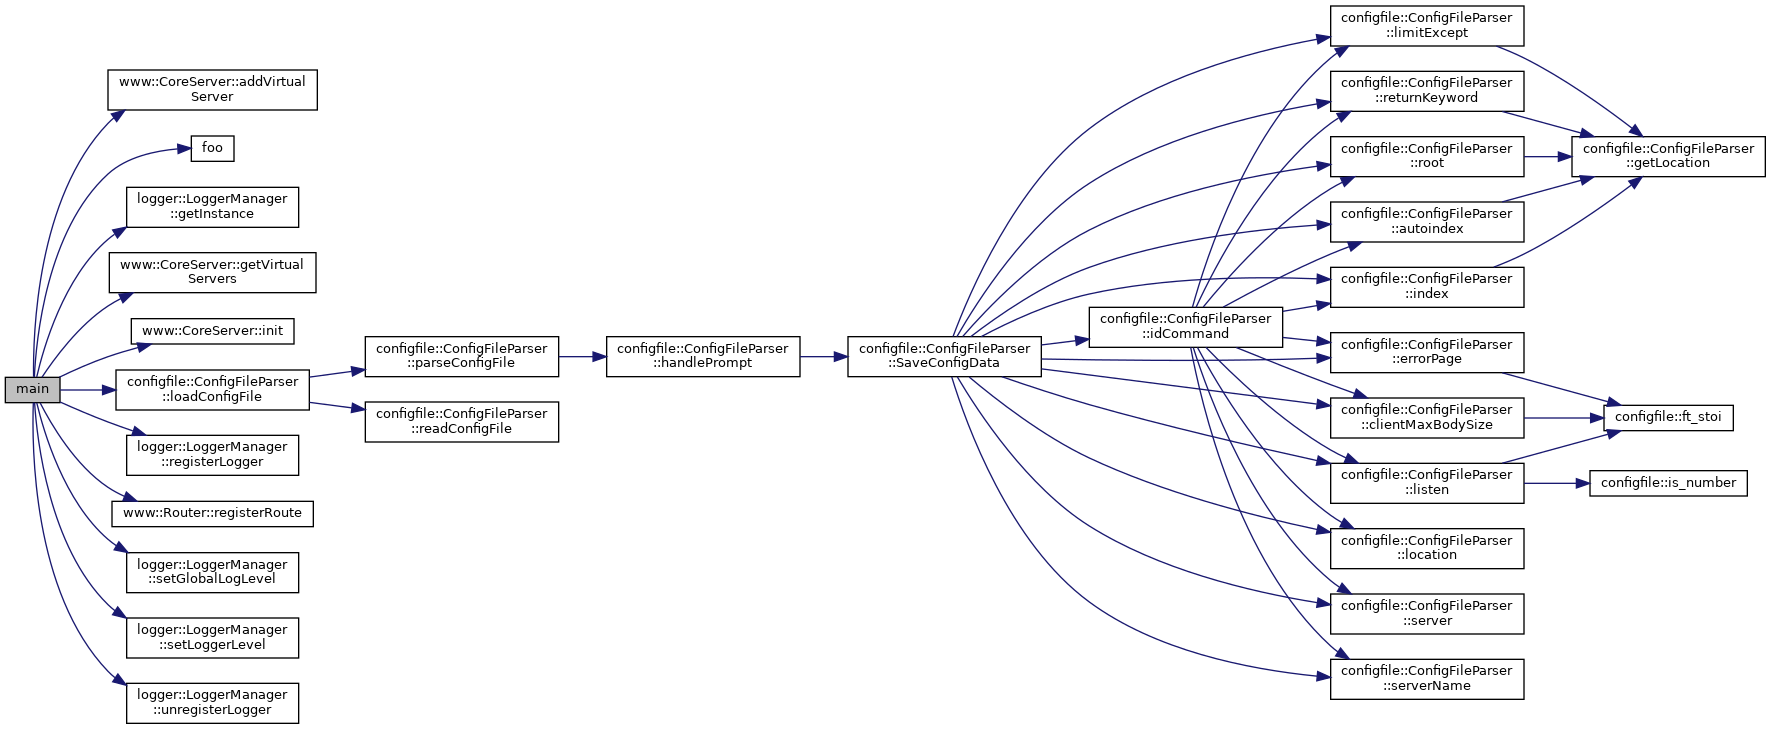
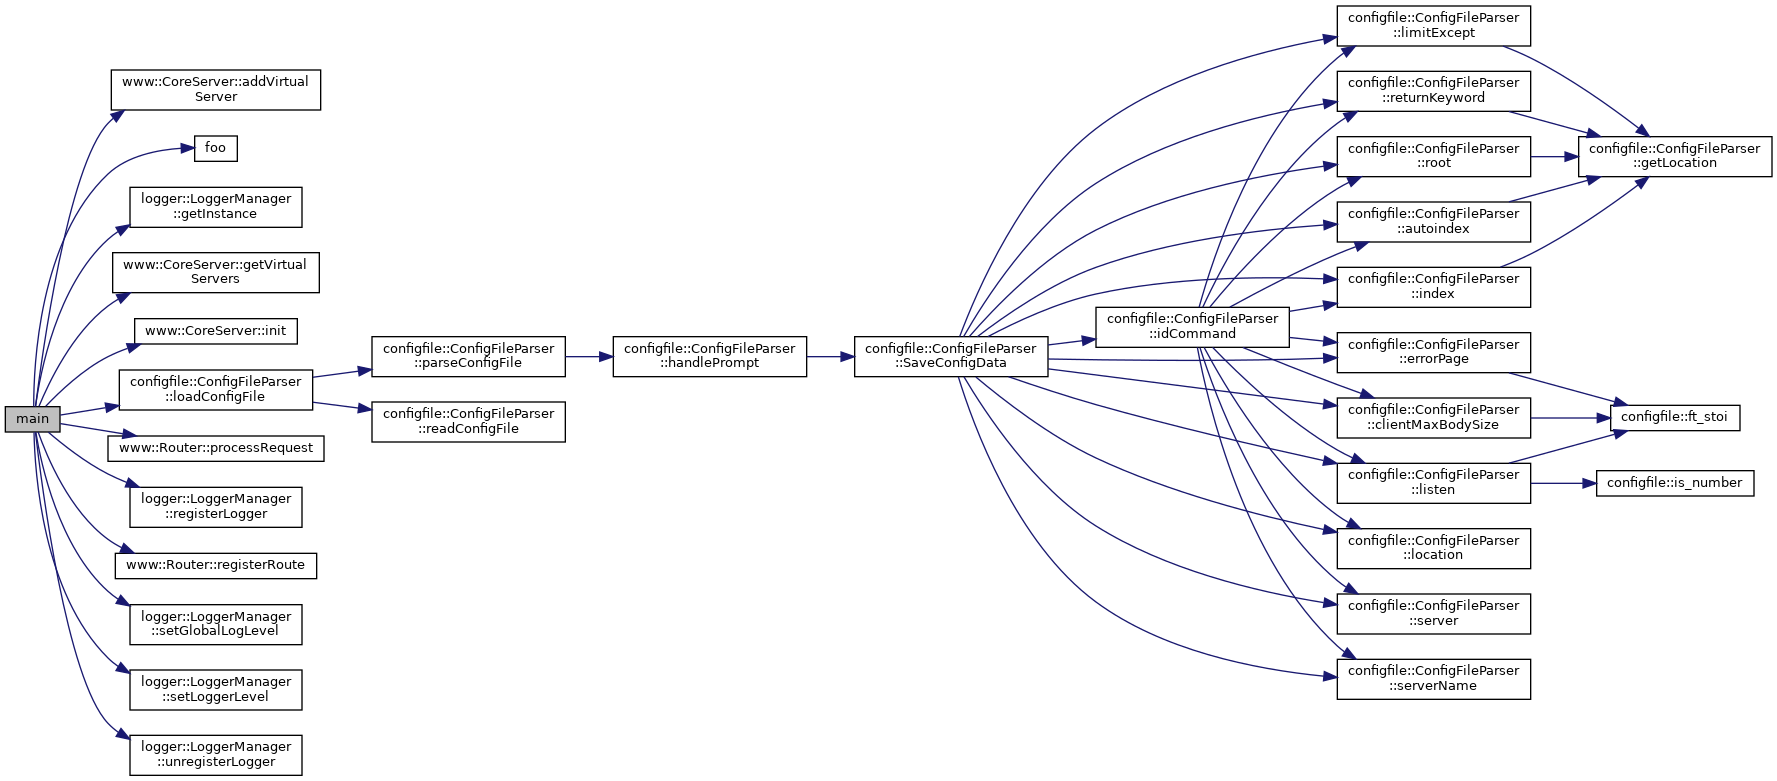
deploy: 33ef4ae413730036f89b91a90101cd8a300ab799

diff --git a/main_8cpp.html b/main_8cpp.html
@@ -221,7 +221,7 @@ Here is the caller graph for this function:</div>
 <div class="line"><a name="l00046"></a><span class="lineno">   46</span>&#160;    router.<a class="code" href="classwww_1_1Router.html#a52bb9a471e4840199e8fd2e0eb12a301">registerRoute</a>(<a class="code" href="structwww_1_1Route.html">www::Route</a>(<span class="stringliteral">&quot;foo&quot;</span>, <a class="code" href="namespacewww.html#aeec20d23be4412d0cfb3b343d22712e2a77ae1de937adbc9a58092ead589256a2">www::GET</a>), <a class="code" href="main_8cpp.html#ad8f8d06fea0e90c71460e714ca52692c">foo</a>);</div>
 <div class="line"><a name="l00047"></a><span class="lineno">   47</span>&#160; </div>
 <div class="line"><a name="l00048"></a><span class="lineno">   48</span>&#160;    <a class="code" href="classwww_1_1Response.html">www::Response</a> res;</div>
-<div class="line"><a name="l00049"></a><span class="lineno">   49</span>&#160;    router.handleRequest(<a class="code" href="classhttp_1_1Request.html">http::Request</a>(), res);</div>
+<div class="line"><a name="l00049"></a><span class="lineno">   49</span>&#160;    router.<a class="code" href="classwww_1_1Router.html#ab827928d8a6306c12ff08bdb67be7f4d">processRequest</a>(<a class="code" href="classhttp_1_1Request.html">http::Request</a>(), res);</div>
 <div class="line"><a name="l00050"></a><span class="lineno">   50</span>&#160; </div>
 <div class="line"><a name="l00051"></a><span class="lineno">   51</span>&#160;    <span class="comment">// configFileParser.printConfigData(1);</span></div>
 <div class="line"><a name="l00052"></a><span class="lineno">   52</span>&#160;    loggerManager.<a class="code" href="classlogger_1_1LoggerManager.html#adf2a8a1ad83a5404d6249518fa460971">unregisterLogger</a>(<span class="stringliteral">&quot;File&quot;</span>);</div>
@@ -251,6 +251,7 @@ Here is the caller graph for this function:</div>
 <div class="ttc" id="aclasswww_1_1Response_html"><div class="ttname"><a href="classwww_1_1Response.html">www::Response</a></div><div class="ttdef"><b>Definition:</b> <a href="Router_8hpp_source.html#l00012">Router.hpp:12</a></div></div>
 <div class="ttc" id="aclasswww_1_1Router_html"><div class="ttname"><a href="classwww_1_1Router.html">www::Router</a></div><div class="ttdoc">...</div><div class="ttdef"><b>Definition:</b> <a href="Router_8hpp_source.html#l00039">Router.hpp:39</a></div></div>
 <div class="ttc" id="aclasswww_1_1Router_html_a52bb9a471e4840199e8fd2e0eb12a301"><div class="ttname"><a href="classwww_1_1Router.html#a52bb9a471e4840199e8fd2e0eb12a301">www::Router::registerRoute</a></div><div class="ttdeci">void registerRoute(const Route &amp;route, const HandlerFunc &amp;handler)</div><div class="ttdef"><b>Definition:</b> <a href="Router_8cpp_source.html#l00044">Router.cpp:44</a></div></div>
+<div class="ttc" id="aclasswww_1_1Router_html_ab827928d8a6306c12ff08bdb67be7f4d"><div class="ttname"><a href="classwww_1_1Router.html#ab827928d8a6306c12ff08bdb67be7f4d">www::Router::processRequest</a></div><div class="ttdeci">void processRequest(const http::Request &amp;req, Response &amp;res) const</div><div class="ttdef"><b>Definition:</b> <a href="Router_8cpp_source.html#l00048">Router.cpp:48</a></div></div>
 <div class="ttc" id="amain_8cpp_html_ad8f8d06fea0e90c71460e714ca52692c"><div class="ttname"><a href="main_8cpp.html#ad8f8d06fea0e90c71460e714ca52692c">foo</a></div><div class="ttdeci">void foo(const http::Request &amp;, www::Response &amp;)</div><div class="ttdef"><b>Definition:</b> <a href="main_8cpp_source.html#l00008">main.cpp:8</a></div></div>
 <div class="ttc" id="anamespaceconfigfile_html"><div class="ttname"><a href="namespaceconfigfile.html">configfile</a></div><div class="ttdef"><b>Definition:</b> <a href="Parser_8cpp_source.html#l00003">Parser.cpp:3</a></div></div>
 <div class="ttc" id="anamespacelogger_html_a08ef41fb8da9e671d65fcbd87b6574a2a0b189dfc00bfa02dd8c23d7d6e1a538c"><div class="ttname"><a href="namespacelogger.html#a08ef41fb8da9e671d65fcbd87b6574a2a0b189dfc00bfa02dd8c23d7d6e1a538c">logger::DEBUG</a></div><div class="ttdeci">@ DEBUG</div><div class="ttdef"><b>Definition:</b> <a href="ALogger_8hpp_source.html#l00017">ALogger.hpp:17</a></div></div>
@@ -262,37 +263,38 @@ Here is the call graph for this function:</div>
 <div class="dyncontent">
 <div class="center"><img src="main_8cpp_a172241e088a9da9dabf2cf839a73c865_cgraph.png" border="0" usemap="#amain_8cpp_a172241e088a9da9dabf2cf839a73c865_cgraph" alt=""/></div>
 <map name="amain_8cpp_a172241e088a9da9dabf2cf839a73c865_cgraph" id="amain_8cpp_a172241e088a9da9dabf2cf839a73c865_cgraph">
-<area shape="rect" title=" " alt="" coords="5,377,60,403"/>
-<area shape="rect" href="classwww_1_1CoreServer.html#ad7b57e659886aef2bf711f2642b4253a" title=" " alt="" coords="108,69,317,111"/>
-<area shape="rect" href="main_8cpp.html#ad8f8d06fea0e90c71460e714ca52692c" title=" " alt="" coords="191,135,234,162"/>
-<area shape="rect" href="classlogger_1_1LoggerManager.html#ad140bde7c3a4c9241fb147f2c864d018" title="Provides access to the singleton instance of LoggerManager." alt="" coords="127,187,299,228"/>
-<area shape="rect" href="classwww_1_1CoreServer.html#a375b9148831eca17c0230a44fb129d72" title=" " alt="" coords="109,252,316,293"/>
-<area shape="rect" href="classwww_1_1CoreServer.html#a669f22616cd765a3eeddc0e8cd72d2ea" title=" " alt="" coords="131,318,294,345"/>
-<area shape="rect" href="classconfigfile_1_1ConfigFileParser.html#a50af4e49462d1d98e1323db4966b8066" title="Loads the configuration file, saving all the information." alt="" coords="116,369,309,411"/>
-<area shape="rect" href="classlogger_1_1LoggerManager.html#ae26ebcbad9c6e4f85769438abac46db5" title="Registers a new logger with the manager." alt="" coords="127,435,299,476"/>
-<area shape="rect" href="classwww_1_1Router.html#a52bb9a471e4840199e8fd2e0eb12a301" title=" " alt="" coords="112,501,313,527"/>
-<area shape="rect" href="classlogger_1_1LoggerManager.html#a7237ff5a6cead3d670328feb6ea60cbd" title="Sets the global log level." alt="" coords="127,552,299,593"/>
-<area shape="rect" href="classlogger_1_1LoggerManager.html#a45d840b2a9bd9fbfccb34689ddc79527" title="Sets the log level for a specific logger." alt="" coords="127,617,299,659"/>
-<area shape="rect" href="classlogger_1_1LoggerManager.html#adf2a8a1ad83a5404d6249518fa460971" title="Unregisters a logger from the manager." alt="" coords="127,683,299,724"/>
-<area shape="rect" href="classconfigfile_1_1ConfigFileParser.html#af7511360a26373b0dead35fbf698c92d" title="Parses the configuration file." alt="" coords="365,336,559,377"/>
-<area shape="rect" href="classconfigfile_1_1ConfigFileParser.html#ad44a28949997d104df4adf501df93e27" title="Reads the configuration file." alt="" coords="365,401,559,443"/>
-<area shape="rect" href="classconfigfile_1_1ConfigFileParser.html#a418f206d5a0144b7635d260560e08ddd" title="parses a line in the configuration file." alt="" coords="607,336,800,377"/>
-<area shape="rect" href="classconfigfile_1_1ConfigFileParser.html#aebc8f5033289d1fb5a1f1ad49c8a0aa1" title="Saves the configuration data." alt="" coords="848,336,1041,377"/>
-<area shape="rect" href="classconfigfile_1_1ConfigFileParser.html#af3f279ca9388592cca6cfd3a2ea92e2e" title="turns the autoindex on or off for the location. (off by default)" alt="" coords="1331,201,1524,243"/>
-<area shape="rect" href="classconfigfile_1_1ConfigFileParser.html#a9ea431676031c75d2c43ed50f1a5686c" title="sets the max body size for the server." alt="" coords="1331,397,1524,439"/>
-<area shape="rect" href="classconfigfile_1_1ConfigFileParser.html#a0ee3094c6d18fb7878cddac3e33c31d4" title="sets the error pages for the server." alt="" coords="1331,332,1524,373"/>
-<area shape="rect" href="classconfigfile_1_1ConfigFileParser.html#ab3d5fe6fa58a1cf92d20b3c91d125e69" title="Identifies the command in the configuration file. and returns the id of the command." alt="" coords="1089,307,1283,348"/>
-<area shape="rect" href="classconfigfile_1_1ConfigFileParser.html#a80477b149418fa6a0245418364bac231" title="sets the index files for the location. (index.html by default)" alt="" coords="1331,267,1524,308"/>
-<area shape="rect" href="classconfigfile_1_1ConfigFileParser.html#ae1400a057e278646e00a33c759ffdc22" title="sets the methods allowed for the location." alt="" coords="1331,5,1524,47"/>
-<area shape="rect" href="classconfigfile_1_1ConfigFileParser.html#aa483b28cb1db8afe132e944352dbb659" title="Sets the port and ip address of the server." alt="" coords="1331,463,1524,504"/>
-<area shape="rect" href="classconfigfile_1_1ConfigFileParser.html#a6ef03a4ad9248be6f13208da6e5d6896" title="Creates a new location struct, initializes it and adds it to the config data." alt="" coords="1331,528,1524,569"/>
-<area shape="rect" href="classconfigfile_1_1ConfigFileParser.html#ac40ef360285d46826685425e60948a13" title="redirects the user to a different url with a specific return code." alt="" coords="1331,71,1524,112"/>
-<area shape="rect" href="classconfigfile_1_1ConfigFileParser.html#ae043ce4248820f92530fa624fe175716" title="sets the root directory for the location." alt="" coords="1331,136,1524,177"/>
-<area shape="rect" href="classconfigfile_1_1ConfigFileParser.html#a80b3f6b4e30809628b7848d3c29e5575" title="Creates a new server struct, initializes it and adds it to the config data." alt="" coords="1331,593,1524,635"/>
-<area shape="rect" href="classconfigfile_1_1ConfigFileParser.html#ad183b45a0c20d5fda540cfc235488d06" title="Sets the server name(s) of the server." alt="" coords="1331,659,1524,700"/>
-<area shape="rect" href="classconfigfile_1_1ConfigFileParser.html#a91faa997adaf9945ec4e7b3016fc3a4d" title="finds the current location in the configuration file." alt="" coords="1572,136,1765,177"/>
-<area shape="rect" href="namespaceconfigfile.html#ad34d46b490514a9d5c9408620ed5e006" title="Converts a string to a positive integer." alt="" coords="1604,405,1733,431"/>
-<area shape="rect" href="namespaceconfigfile.html#abab751401cc4565602552b0da2b831aa" title="Checks if a string is a number." alt="" coords="1590,470,1747,497"/>
+<area shape="rect" title=" " alt="" coords="5,406,60,433"/>
+<area shape="rect" href="classwww_1_1CoreServer.html#ad7b57e659886aef2bf711f2642b4253a" title=" " alt="" coords="111,69,321,111"/>
+<area shape="rect" href="main_8cpp.html#ad8f8d06fea0e90c71460e714ca52692c" title=" " alt="" coords="195,135,237,162"/>
+<area shape="rect" href="classlogger_1_1LoggerManager.html#ad140bde7c3a4c9241fb147f2c864d018" title="Provides access to the singleton instance of LoggerManager." alt="" coords="130,187,302,228"/>
+<area shape="rect" href="classwww_1_1CoreServer.html#a375b9148831eca17c0230a44fb129d72" title=" " alt="" coords="113,252,319,293"/>
+<area shape="rect" href="classwww_1_1CoreServer.html#a669f22616cd765a3eeddc0e8cd72d2ea" title=" " alt="" coords="135,318,297,345"/>
+<area shape="rect" href="classconfigfile_1_1ConfigFileParser.html#a50af4e49462d1d98e1323db4966b8066" title="Loads the configuration file, saving all the information." alt="" coords="119,369,313,411"/>
+<area shape="rect" href="classwww_1_1Router.html#ab827928d8a6306c12ff08bdb67be7f4d" title=" " alt="" coords="108,435,324,462"/>
+<area shape="rect" href="classlogger_1_1LoggerManager.html#ae26ebcbad9c6e4f85769438abac46db5" title="Registers a new logger with the manager." alt="" coords="130,487,302,528"/>
+<area shape="rect" href="classwww_1_1Router.html#a52bb9a471e4840199e8fd2e0eb12a301" title=" " alt="" coords="115,553,317,579"/>
+<area shape="rect" href="classlogger_1_1LoggerManager.html#a7237ff5a6cead3d670328feb6ea60cbd" title="Sets the global log level." alt="" coords="130,604,302,645"/>
+<area shape="rect" href="classlogger_1_1LoggerManager.html#a45d840b2a9bd9fbfccb34689ddc79527" title="Sets the log level for a specific logger." alt="" coords="130,669,302,711"/>
+<area shape="rect" href="classlogger_1_1LoggerManager.html#adf2a8a1ad83a5404d6249518fa460971" title="Unregisters a logger from the manager." alt="" coords="130,735,302,776"/>
+<area shape="rect" href="classconfigfile_1_1ConfigFileParser.html#af7511360a26373b0dead35fbf698c92d" title="Parses the configuration file." alt="" coords="372,336,565,377"/>
+<area shape="rect" href="classconfigfile_1_1ConfigFileParser.html#ad44a28949997d104df4adf501df93e27" title="Reads the configuration file." alt="" coords="372,401,565,443"/>
+<area shape="rect" href="classconfigfile_1_1ConfigFileParser.html#a418f206d5a0144b7635d260560e08ddd" title="parses a line in the configuration file." alt="" coords="613,336,807,377"/>
+<area shape="rect" href="classconfigfile_1_1ConfigFileParser.html#aebc8f5033289d1fb5a1f1ad49c8a0aa1" title="Saves the configuration data." alt="" coords="855,336,1048,377"/>
+<area shape="rect" href="classconfigfile_1_1ConfigFileParser.html#af3f279ca9388592cca6cfd3a2ea92e2e" title="turns the autoindex on or off for the location. (off by default)" alt="" coords="1337,201,1531,243"/>
+<area shape="rect" href="classconfigfile_1_1ConfigFileParser.html#a9ea431676031c75d2c43ed50f1a5686c" title="sets the max body size for the server." alt="" coords="1337,397,1531,439"/>
+<area shape="rect" href="classconfigfile_1_1ConfigFileParser.html#a0ee3094c6d18fb7878cddac3e33c31d4" title="sets the error pages for the server." alt="" coords="1337,332,1531,373"/>
+<area shape="rect" href="classconfigfile_1_1ConfigFileParser.html#ab3d5fe6fa58a1cf92d20b3c91d125e69" title="Identifies the command in the configuration file. and returns the id of the command." alt="" coords="1096,307,1289,348"/>
+<area shape="rect" href="classconfigfile_1_1ConfigFileParser.html#a80477b149418fa6a0245418364bac231" title="sets the index files for the location. (index.html by default)" alt="" coords="1337,267,1531,308"/>
+<area shape="rect" href="classconfigfile_1_1ConfigFileParser.html#ae1400a057e278646e00a33c759ffdc22" title="sets the methods allowed for the location." alt="" coords="1337,5,1531,47"/>
+<area shape="rect" href="classconfigfile_1_1ConfigFileParser.html#aa483b28cb1db8afe132e944352dbb659" title="Sets the port and ip address of the server." alt="" coords="1337,463,1531,504"/>
+<area shape="rect" href="classconfigfile_1_1ConfigFileParser.html#a6ef03a4ad9248be6f13208da6e5d6896" title="Creates a new location struct, initializes it and adds it to the config data." alt="" coords="1337,528,1531,569"/>
+<area shape="rect" href="classconfigfile_1_1ConfigFileParser.html#ac40ef360285d46826685425e60948a13" title="redirects the user to a different url with a specific return code." alt="" coords="1337,71,1531,112"/>
+<area shape="rect" href="classconfigfile_1_1ConfigFileParser.html#ae043ce4248820f92530fa624fe175716" title="sets the root directory for the location." alt="" coords="1337,136,1531,177"/>
+<area shape="rect" href="classconfigfile_1_1ConfigFileParser.html#a80b3f6b4e30809628b7848d3c29e5575" title="Creates a new server struct, initializes it and adds it to the config data." alt="" coords="1337,593,1531,635"/>
+<area shape="rect" href="classconfigfile_1_1ConfigFileParser.html#ad183b45a0c20d5fda540cfc235488d06" title="Sets the server name(s) of the server." alt="" coords="1337,659,1531,700"/>
+<area shape="rect" href="classconfigfile_1_1ConfigFileParser.html#a91faa997adaf9945ec4e7b3016fc3a4d" title="finds the current location in the configuration file." alt="" coords="1579,136,1772,177"/>
+<area shape="rect" href="namespaceconfigfile.html#ad34d46b490514a9d5c9408620ed5e006" title="Converts a string to a positive integer." alt="" coords="1611,405,1740,431"/>
+<area shape="rect" href="namespaceconfigfile.html#abab751401cc4565602552b0da2b831aa" title="Checks if a string is a number." alt="" coords="1597,470,1754,497"/>
 </map>
 </div>
 

diff --git a/main_8cpp_source.html b/main_8cpp_source.html
@@ -111,7 +111,7 @@ $(document).ready(function(){initNavTree('main_8cpp_source.html',''); initResiza
 <div class="line"><a name="l00046"></a><span class="lineno">   46</span>&#160;    router.<a class="code" href="classwww_1_1Router.html#a52bb9a471e4840199e8fd2e0eb12a301">registerRoute</a>(<a class="code" href="structwww_1_1Route.html">www::Route</a>(<span class="stringliteral">&quot;foo&quot;</span>, <a class="code" href="namespacewww.html#aeec20d23be4412d0cfb3b343d22712e2a77ae1de937adbc9a58092ead589256a2">www::GET</a>), <a class="code" href="main_8cpp.html#ad8f8d06fea0e90c71460e714ca52692c">foo</a>);</div>
 <div class="line"><a name="l00047"></a><span class="lineno">   47</span>&#160; </div>
 <div class="line"><a name="l00048"></a><span class="lineno">   48</span>&#160;    <a class="code" href="classwww_1_1Response.html">www::Response</a> res;</div>
-<div class="line"><a name="l00049"></a><span class="lineno">   49</span>&#160;    router.handleRequest(<a class="code" href="classhttp_1_1Request.html">http::Request</a>(), res);</div>
+<div class="line"><a name="l00049"></a><span class="lineno">   49</span>&#160;    router.<a class="code" href="classwww_1_1Router.html#ab827928d8a6306c12ff08bdb67be7f4d">processRequest</a>(<a class="code" href="classhttp_1_1Request.html">http::Request</a>(), res);</div>
 <div class="line"><a name="l00050"></a><span class="lineno">   50</span>&#160; </div>
 <div class="line"><a name="l00051"></a><span class="lineno">   51</span>&#160;    <span class="comment">// configFileParser.printConfigData(1);</span></div>
 <div class="line"><a name="l00052"></a><span class="lineno">   52</span>&#160;    loggerManager.<a class="code" href="classlogger_1_1LoggerManager.html#adf2a8a1ad83a5404d6249518fa460971">unregisterLogger</a>(<span class="stringliteral">&quot;File&quot;</span>);</div>
@@ -145,6 +145,7 @@ $(document).ready(function(){initNavTree('main_8cpp_source.html',''); initResiza
 <div class="ttc" id="aclasswww_1_1Response_html"><div class="ttname"><a href="classwww_1_1Response.html">www::Response</a></div><div class="ttdef"><b>Definition:</b> <a href="Router_8hpp_source.html#l00012">Router.hpp:12</a></div></div>
 <div class="ttc" id="aclasswww_1_1Router_html"><div class="ttname"><a href="classwww_1_1Router.html">www::Router</a></div><div class="ttdoc">...</div><div class="ttdef"><b>Definition:</b> <a href="Router_8hpp_source.html#l00039">Router.hpp:39</a></div></div>
 <div class="ttc" id="aclasswww_1_1Router_html_a52bb9a471e4840199e8fd2e0eb12a301"><div class="ttname"><a href="classwww_1_1Router.html#a52bb9a471e4840199e8fd2e0eb12a301">www::Router::registerRoute</a></div><div class="ttdeci">void registerRoute(const Route &amp;route, const HandlerFunc &amp;handler)</div><div class="ttdef"><b>Definition:</b> <a href="Router_8cpp_source.html#l00044">Router.cpp:44</a></div></div>
+<div class="ttc" id="aclasswww_1_1Router_html_ab827928d8a6306c12ff08bdb67be7f4d"><div class="ttname"><a href="classwww_1_1Router.html#ab827928d8a6306c12ff08bdb67be7f4d">www::Router::processRequest</a></div><div class="ttdeci">void processRequest(const http::Request &amp;req, Response &amp;res) const</div><div class="ttdef"><b>Definition:</b> <a href="Router_8cpp_source.html#l00048">Router.cpp:48</a></div></div>
 <div class="ttc" id="amain_8cpp_html_a172241e088a9da9dabf2cf839a73c865"><div class="ttname"><a href="main_8cpp.html#a172241e088a9da9dabf2cf839a73c865">main</a></div><div class="ttdeci">int main(int argc, char **const argv)</div><div class="ttdef"><b>Definition:</b> <a href="main_8cpp_source.html#l00010">main.cpp:10</a></div></div>
 <div class="ttc" id="amain_8cpp_html_ad8f8d06fea0e90c71460e714ca52692c"><div class="ttname"><a href="main_8cpp.html#ad8f8d06fea0e90c71460e714ca52692c">foo</a></div><div class="ttdeci">void foo(const http::Request &amp;, www::Response &amp;)</div><div class="ttdef"><b>Definition:</b> <a href="main_8cpp_source.html#l00008">main.cpp:8</a></div></div>
 <div class="ttc" id="anamespaceconfigfile_html"><div class="ttname"><a href="namespaceconfigfile.html">configfile</a></div><div class="ttdef"><b>Definition:</b> <a href="Parser_8cpp_source.html#l00003">Parser.cpp:3</a></div></div>

diff --git a/classwww_1_1Router.html b/classwww_1_1Router.html
@@ -259,7 +259,16 @@ Private Attributes</h2></td></tr>
 <div class="line"><a name="l00057"></a><span class="lineno">   57</span>&#160;  it-&gt;second(req, res);</div>
 <div class="line"><a name="l00058"></a><span class="lineno">   58</span>&#160;}</div>
 <div class="ttc" id="anamespacewww_html_aeec20d23be4412d0cfb3b343d22712e2a77ae1de937adbc9a58092ead589256a2"><div class="ttname"><a href="namespacewww.html#aeec20d23be4412d0cfb3b343d22712e2a77ae1de937adbc9a58092ead589256a2">www::GET</a></div><div class="ttdeci">@ GET</div><div class="ttdef"><b>Definition:</b> <a href="Router_8hpp_source.html#l00011">Router.hpp:11</a></div></div>
-</div><!-- fragment -->
+</div><!-- fragment --><div class="dynheader">
+Here is the caller graph for this function:</div>
+<div class="dyncontent">
+<div class="center"><img src="classwww_1_1Router_ab827928d8a6306c12ff08bdb67be7f4d_icgraph.png" border="0" usemap="#aclasswww_1_1Router_ab827928d8a6306c12ff08bdb67be7f4d_icgraph" alt=""/></div>
+<map name="aclasswww_1_1Router_ab827928d8a6306c12ff08bdb67be7f4d_icgraph" id="aclasswww_1_1Router_ab827928d8a6306c12ff08bdb67be7f4d_icgraph">
+<area shape="rect" title=" " alt="" coords="108,5,324,32"/>
+<area shape="rect" href="main_8cpp.html#a172241e088a9da9dabf2cf839a73c865" title=" " alt="" coords="5,5,60,32"/>
+</map>
+</div>
+
 </div>
 </div>
 <a id="a52bb9a471e4840199e8fd2e0eb12a301"></a>
